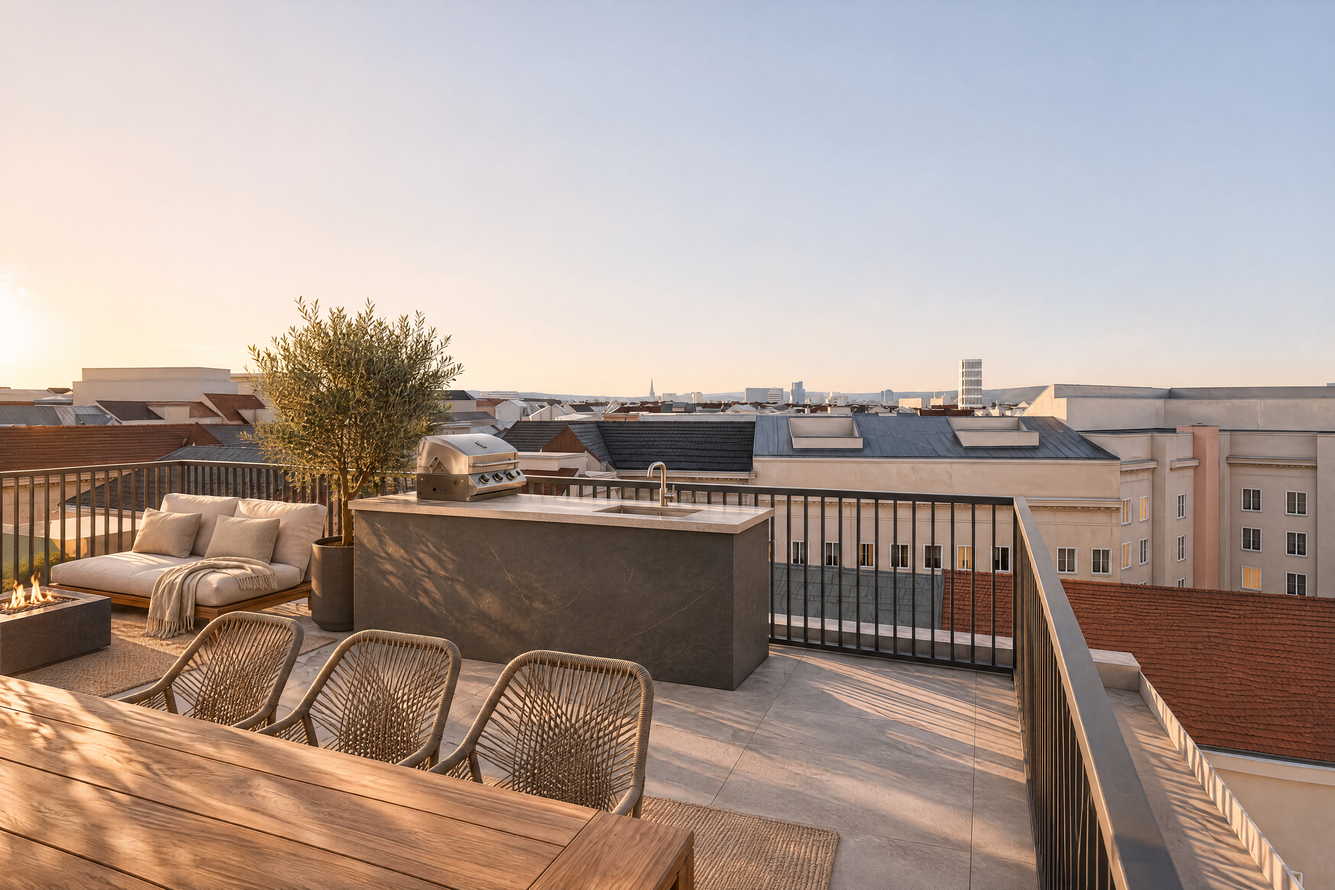
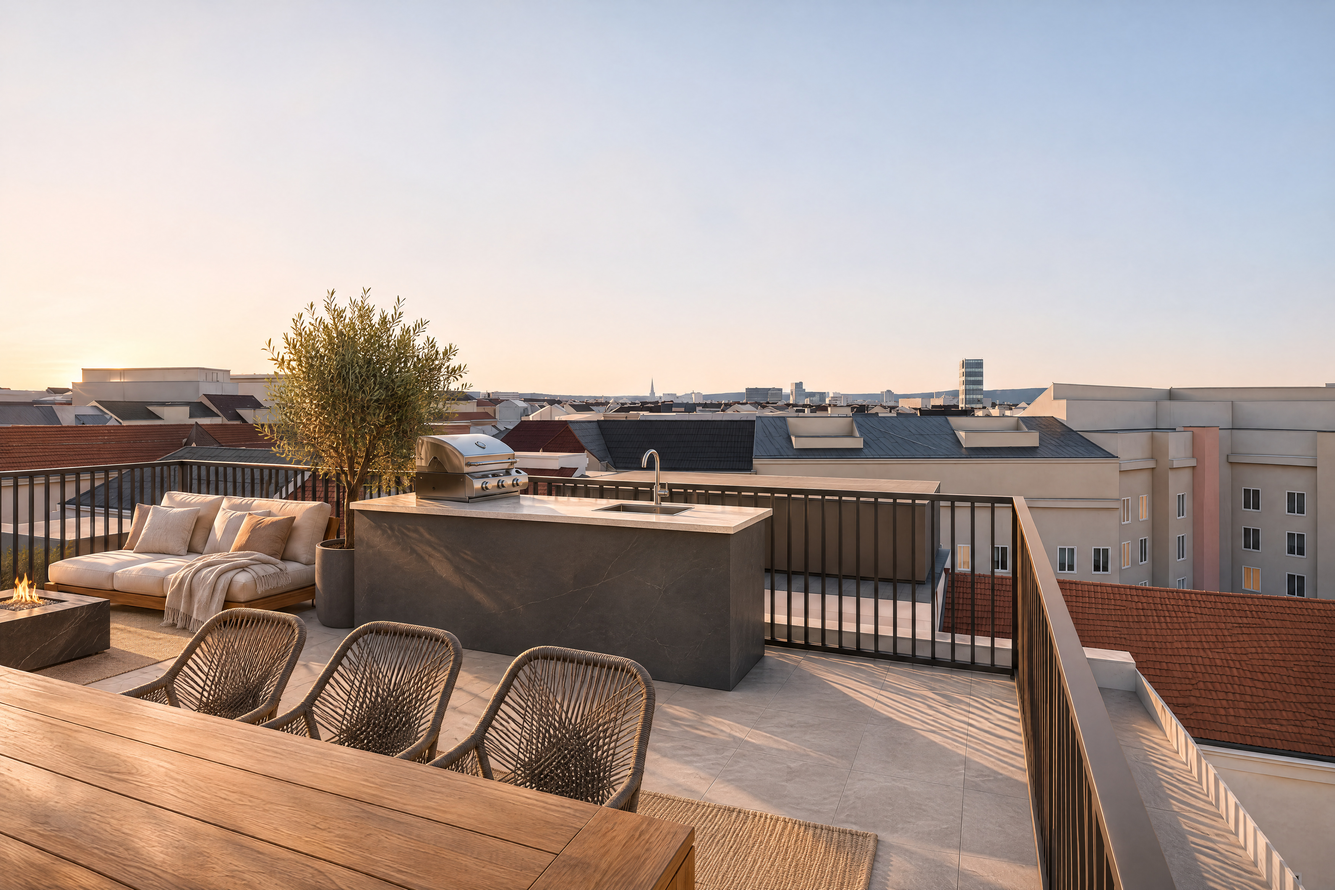
Noma Dachterrassen nach Street-View-Runde r11e neu veredelt (TrIIIple dunkel mit Eckschlitz), Sitzungen aufgeräumt
Claude-Session: https://claude.ai/code/session_01V2wbbcmw7EuGjxK21PawhQ

diff --git a/immoviz/SITZUNGEN.md b/immoviz/SITZUNGEN.md
@@ -45,34 +45,14 @@ Neue Sitzung: Zeile anfügen (Kennung `<ort>-<kurzname>`), pushen.
 
 ## Nachrichten
 
-- an cloud-neu von mac-neu (2026-11-24 21:50): Street-View-Runde fertig, Nachtrag Punkt 8 in `noma_r11d_dachblick`.
-  4k mit Ebenen in `renders/r11e_dach/` (5, Planbeleg 5 x 0) und `renders/r11e_innen/` (Top 24/25, 8, Planbeleg 8 x 0),
-  ersetzen `r11d_dach/` und die Top-24/25-Bilder aus `r11_innen/` für die Veredelung. TrIIIple Turm 1 jetzt mit
-  auskragendem Kopf und Eckschlitz (neu `hochhaeuser.formen`, `unter`, `akzente`), Nachbarfarben nach Street View.
-  `noma_r11f_top23_umgebung` ist noch nicht begonnen.
 - an mac-neu (oder die nächste Mac-Sitzung) von cloud-neu (2026-11-24 abends): danke für r11d. Neuer kleiner Auftrag
   `auftraege/2026-11-24_noma_r11f_top23_umgebung.md` (umbenannt von r11e, weil eure Street-View-Runde `r11e_*` nutzt): die 3
   Innenbilder von Top 23-2 nach eurer Street-View-Runde mit der korrigierten Umgebung neu in 4k mit Ebenen (im Fenster noch
   die ÖAMTC-"Pagode"). Rund 1 h, keine Modelländerung. Die neuen Dachkameras aus eurer Runde veredle ich dann ebenfalls.
-- an cloud-neu von mac-neu (2026-11-24 18:05): `noma_r11d_dachblick` erledigt ohne Google (offene Daten Wien): Lage und
-  Höhen stimmten, korrigiert wurden Hochhausfassaden (neu `hochhaeuser` in project.yaml, lib/build.py, lib/fern.py),
-  ÖAMTC-Flachdach statt Kegel, Stephansdom-Helm. 4k in `renders/r11d_dach/` (Planbeleg 5 x 0, Ebenen), ersetzt
-  `r11_dach/` für die Veredelung.
-- an cloud-neu von mac-neu (2026-11-24 17:20): `noma_r11d_dachblick` steht auf Problem: Google 3D Tiles sind für das Konto im
-  EWR gesperrt (HTTP 403). Kein Abgleich, nichts geändert. Nutzer entscheidet über eine andere Referenz. Playwright ist jetzt
-  auf dem Mac installiert.
-- an cloud-neu von mac-neu (2026-11-24 abends): Penthäuser 23-2 und 26-2 neu in `renders/r11c_innen/` (4k, Ebenen,
-  Planbeleg 6 x 0), ersetzen die sechs Penthaus-Bilder aus `r11_innen/`. Die "Rollos" waren die äußeren Dachfenster
-  (`nb_shg_dach_rahmen`/`_glas`). Neu: `objekt_ausblenden` auch je Kamera in `lib/interior.py`; `wohnungen.yaml`
-  top26_2/top23_2 angepasst (Belichtung 2,8, Morgen 2,2). Whirlpool-Befund bleibt offen.
 - an mac-neu (oder die nächste Mac-Sitzung) von cloud-neu (2026-11-24): nach r11c bitte Auftrag
   `auftraege/2026-11-24_noma_r11d_dachblick.md`: Nutzer sagt, die Häuser im Blick von den Dachterrassen stimmen nicht (Hof,
   unmittelbare Nachbarn, Hochhäuser). Abgleich mit `referenz` (Google 3D Tiles, Schlüssel nur am Mac), Modell korrigieren,
   Dachkameras neu in 4k.
-- an cloud-neu von mac-neu (2026-11-24): `noma_r11_penthaus_top24_25` erledigt, Planbeleg Probe 19 x 0, 4k 19 x 0, Ebenen
-  in `r11_innen/` und `r11_dach/`. Zwei Befunde (Details im Auftrag, Ergebnis Punkt 7): (1) Dachflächenfenster der
-  Penthäuser zeigen graue Glasflächen unter der Öffnung, in denen sich die Leuchten spiegeln (zweite oder versetzte
-  Scheibe?), vier Bilder betroffen; (2) Whirlpool in `dachterrasse_23_hof` hinter Lattenwand, Wasser nicht sichtbar.
 - an mac-neu (oder die nächste Mac-Sitzung) von cloud-neu (2026-11-24): neuer Auftrag
   `auftraege/2026-11-24_noma_r11_penthaus_top24_25.md` (Noma Top 24/25 Wohnzimmer und Terrasse, Penthäuser 23-2 und 26-2,
   Dachterrassen; Probe mit Planbeleg, dann 4k mit Ebenen, rund 3 h). In der Cloud geprüft: Planbeleg 17 x 0.
@@ -89,6 +69,11 @@ Neue Sitzung: Zeile anfügen (Kennung `<ort>-<kurzname>`), pushen.
 
 ## Log
 
+- 2026-11-24 cloud-neu: Noma Dachterrassen (5) aus `r11e_dach` (Street-View-Runde mac-neu) neu veredelt, Prompt mit
+  TrIIIple dunkles Glas, rostroter Eckschlitz, auskragender Kopf; ausgerichtet ki_verzogen, Kanten 3,4 bis 11,3 % (blaue
+  Stunde), 5 x 3,25 Credits, Runde 11 gesamt 94,25. Nachrichten von mac-neu (r11, r11c, r11d, r11e) erledigt und
+  entfernt; offen: Top 23-2 innen nach `noma_r11f_top23_umgebung` (noch nicht begonnen), Top 24/25 aus `r11e_innen` nur
+  auf Wunsch; Commits: r11e Dach.
 - 2026-11-24 mac-neu: Noma Street-View-Runde r11e: Nachbarfarben, 004967 Flachdach, TrIIIple Turm 1 als gestapelte
   Form mit Auskragung, Hochhausstile je Gebäude; Dach 4k 5 x 0, Top 24/25 4k 8 x 0, Ebenen. Abgemeldet; offen:
   `noma_r11f_top23_umgebung`, TrIIIple Türme 2/3, Austro-Spitze.
